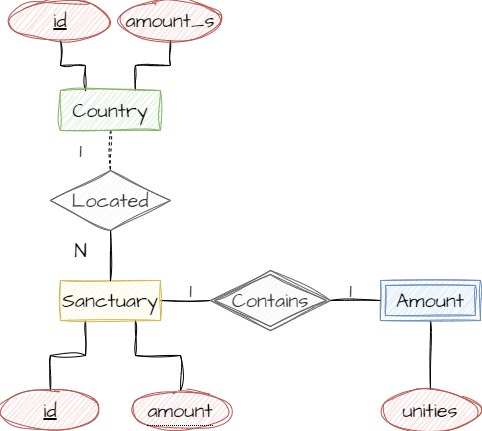
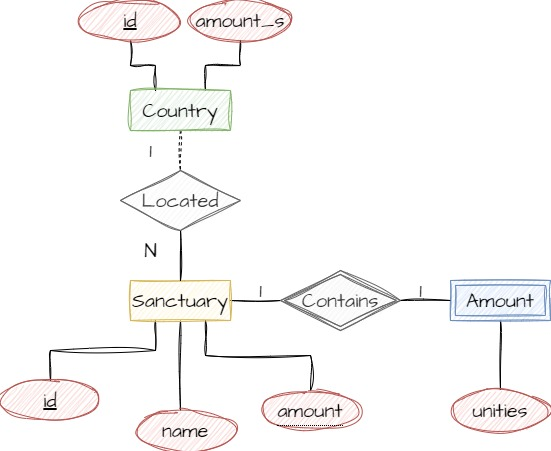
Fix

Changed region(s): [[0.0, 0.0, 1.0, 1.0], [0.1556, 0.5429, 0.1867, 0.6032]]

diff --git a/elephantapi/elephantapiapp/views.py b/elephantapi/elephantapiapp/views.py
@@ -1,6 +1,17 @@
 from django.shortcuts import render
 from django.http import HttpResponse, JsonResponse
+from .models import Sanctuary, Country, Amount
+from django.views.generic import CreateView
+from django.views.decorators.csrf import csrf_exempt
 
 # Create your views here.
 def index(request):
-    return JsonResponse({'status': 200, 'msg': 'OK' })
+    return JsonResponse({ 'Elephant API': "Elephant Sanctuaries, Orphanages and Parks Around the World 🐘" })
+
+@csrf_exempt
+def create(request):
+    amount = request.GET.get('amount')
+    country = request.GET.get('country')
+    if request.method == 'POST':
+        # Sanctuary = 
+        return JsonResponse({'msg': 'Welcome to the create view!', 'data': f'We received as data: {request}'})

diff --git a/elephantapi/elephantapiapp/migrations/0001_initial.py b/elephantapi/elephantapiapp/migrations/0001_initial.py
@@ -1,4 +1,4 @@
-# Generated by Django 4.1.7 on 2023-03-30 17:11
+# Generated by Django 4.1.7 on 2023-03-30 18:41
 
 from django.db import migrations, models
 import django.db.models.deletion
@@ -30,6 +30,7 @@ class Migration(migrations.Migration):
             name='Sanctuary',
             fields=[
                 ('id_sanctuary', models.AutoField(primary_key=True, serialize=False)),
+                ('name', models.CharField(max_length=80)),
                 ('fk_amount', models.ForeignKey(on_delete=django.db.models.deletion.CASCADE, to='elephantapiapp.amount')),
                 ('fk_country', models.ForeignKey(on_delete=django.db.models.deletion.CASCADE, to='elephantapiapp.country')),
             ],

diff --git a/elephantapi/elephantapiapp/urls.py b/elephantapi/elephantapiapp/urls.py
@@ -1,8 +1,11 @@
-from django.urls import path
+from django.urls import path, re_path
 
 from elephantapiapp import views
 
 app_name='elephantapiapp'
 urlpatterns = [
     path('', views.index, name='index'),
+    # Receives amount and country: http://localhost:8000/create?amount=5&country=India
+    path('create', views.create, name='create'),
+    
 ]

diff --git a/elephantapi/elephantapiapp/models.py b/elephantapi/elephantapiapp/models.py
@@ -13,3 +13,4 @@ class Sanctuary(models.Model):
     id_sanctuary = models.AutoField(primary_key=True)
     fk_amount = models.ForeignKey(Amount, on_delete=models.CASCADE)
     fk_country = models.ForeignKey(Country, on_delete=models.CASCADE)
+    name = models.CharField(max_length=80)
